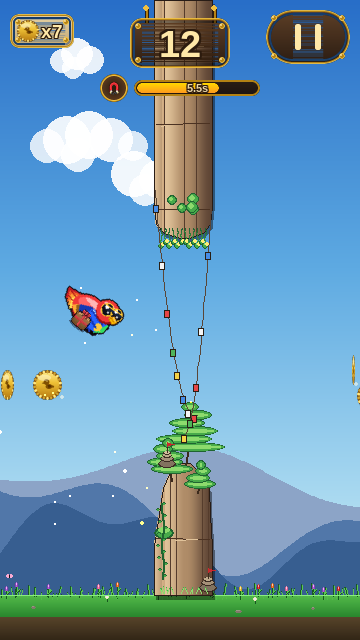
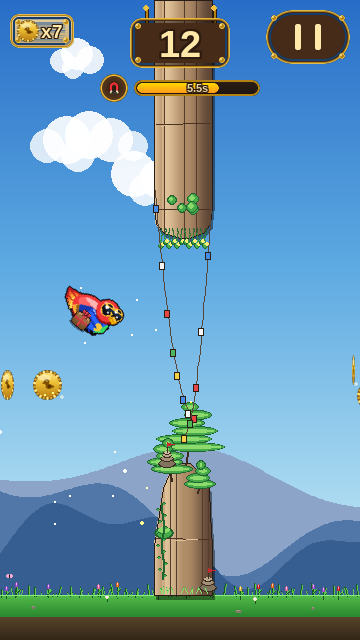
Gameplay HUD mockup: solid score plaque + pause pill backgrounds
Replace the gradient + wood-grain fill (which read as drawn lines / half-
transparent) on the score plaque and pause pill with a single opaque brown,
keeping the gold rope rim, rivets and glyphs. Coin parchment plaque + timer
left as-is. Mockup only; game/ untouched.

https://claude.ai/code/session_017Z3zLhntZrsy2aMti6pFtg

diff --git a/tools/gen_gameplay_hud_round4.py b/tools/gen_gameplay_hud_round4.py
@@ -164,25 +164,31 @@ def _rivets(ss, ow, oh, m):
 
 
 def cand_plaques(surf):
-    def wood_plaque(rect, radius, parchment=False):
+    def wood_plaque(rect, radius, parchment=False, solid=False):
         # C's plaque, with the cast-shadow blit removed (edit 1). The beveled
         # carved relief is preserved — it lives in the gradient, the inner
         # groove and the gold rope-band rim, none of which are cast shadows.
+        # ``solid=True`` fills a single opaque brown instead of the gradient +
+        # wood-grain lines, for a clean solid background.
         ss = _ss_surf(rect.width, rect.height)
         ow, oh, orad = rect.width * SS, rect.height * SS, radius * SS
-        if parchment:
-            top, bot = _PARCH_LT, _PARCH_DK
+        if solid:
+            pygame.draw.rect(ss, (*_WOOD_MD, 255), (0, 0, ow, oh),
+                             border_radius=orad)
         else:
-            top, bot = _WOOD_LT, _WOOD_DK
-        _vgrad_rounded(ss, pygame.Rect(0, 0, rect.width, rect.height), top, bot,
-                       radius, alpha=248)
-        # wood grain / parchment mottling
-        rng = random.Random(rect.x * 13 + rect.y)
-        for _ in range(int(rect.width * 0.5)):
-            yy = rng.randint(2 * SS, oh - 2 * SS)
-            a = rng.randint(14, 34)
-            col = (30, 18, 8) if not parchment else (150, 120, 70)
-            pygame.draw.line(ss, (*col, a), (orad, yy), (ow - orad, yy))
+            if parchment:
+                top, bot = _PARCH_LT, _PARCH_DK
+            else:
+                top, bot = _WOOD_LT, _WOOD_DK
+            _vgrad_rounded(ss, pygame.Rect(0, 0, rect.width, rect.height), top,
+                           bot, radius, alpha=248)
+            # wood grain / parchment mottling
+            rng = random.Random(rect.x * 13 + rect.y)
+            for _ in range(int(rect.width * 0.5)):
+                yy = rng.randint(2 * SS, oh - 2 * SS)
+                a = rng.randint(14, 34)
+                col = (30, 18, 8) if not parchment else (150, 120, 70)
+                pygame.draw.line(ss, (*col, a), (orad, yy), (ow - orad, yy))
         # carved inner groove
         pygame.draw.rect(ss, (0, 0, 0, 120),
                          (3 * SS, 3 * SS, ow - 6 * SS, oh - 6 * SS),
@@ -207,7 +213,7 @@ def cand_plaques(surf):
         pygame.draw.line(surf, _WOOD_DK, (hx, rail_y), (hx, sp.y + 4), 4)
         pygame.draw.line(surf, _GOLD_DEEP, (hx, rail_y), (hx, sp.y + 4), 2)
         pygame.draw.circle(surf, _GOLD_BRIGHT, (hx, rail_y), 3)
-    wood_plaque(sp, 12)
+    wood_plaque(sp, 12, solid=True)
     _outlined(surf, SCORE, sp.center, 38, _GOLD_PALE, _WOOD_DK, 2)
 
     # ── COINS — re-themed carved parchment plaque w/ gold rope-band edge
@@ -233,13 +239,7 @@ def cand_plaques(surf):
     rad = ph // 2
     ss = _ss_surf(pw, ph)
     ow, oh, orad = pw * SS, ph * SS, rad * SS
-    _vgrad_rounded(ss, pygame.Rect(0, 0, pw, ph), _WOOD_LT, _WOOD_DK, rad,
-                   alpha=248)
-    rng = random.Random(px * 13 + py)
-    for _ in range(int(pw * 0.5)):
-        yy = rng.randint(2 * SS, oh - 2 * SS)
-        a = rng.randint(14, 34)
-        pygame.draw.line(ss, (30, 18, 8, a), (orad, yy), (ow - orad, yy))
+    pygame.draw.rect(ss, (*_WOOD_MD, 255), (0, 0, ow, oh), border_radius=orad)
     pygame.draw.rect(ss, (0, 0, 0, 120),
                      (3 * SS, 3 * SS, ow - 6 * SS, oh - 6 * SS),
                      width=2 * SS, border_radius=max(1, orad - 3 * SS))
